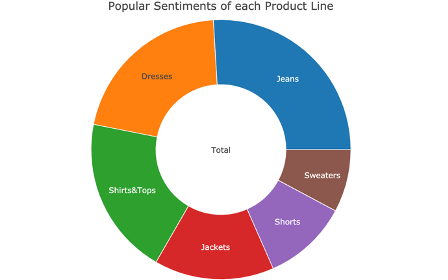
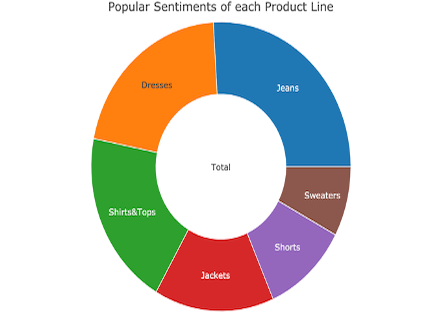
Resize Images"

diff --git a/app.py b/app.py
@@ -379,10 +379,6 @@ card4 = dbc.Card(
             [
                 html.Br(),
                 html.Br(),
-                html.Br(),
-                html.Br(),
-                html.Br(),
-                html.Br(),
                 dbc.Button("View Graph", color="primary", id="open-modal6"),
                 dbc.Modal(
                     [
@@ -606,9 +602,6 @@ card7 = dbc.Card(
             [
                 html.Br(),
                 html.Br(),
-                html.Br(),
-                html.Br(),
-                html.Br(),
                 dbc.Button("View Graph", color = "primary", size = "md", id="open-modal7"),
                 dbc.Modal(
                     [
@@ -678,7 +671,7 @@ def update_graph7(input_data):
     
     layout = {
         "title": "Popular Sentiments of each Product Line",
-        "margin": {"l": 20, "t":30, "b":20, "r":20},
+        "margin": {"l": 20, "t":100, "b":20, "r":20},
         "clickmode": "event+select"
     }
 
@@ -754,38 +747,38 @@ def toggle_modal(n1, n2, is_open):
 
 
 ################################################################################################################################################################
-complete_button = html.Div(
-    dbc.Row(
-        [
-            dbc.Col(
-                [
-                    dbc.Button("Click to conclude analysis and retrieve token", id="completed-analysis-modal-button", size="lg", color="primary"),
-                    html.Br(),
-                    html.Br(),
-                    dbc.Modal(
-                        [
-                            dbc.ModalHeader(children=[html.H3("Your token is located below.")]), 
-                            dbc.ModalBody(children=
-                                [ 
-                                    html.H4("DO NOT close the tab until you have copied your token and inserted it into the Qualtrics Survey"),
-                                    html.Br(),
-                                    html.Hr(), 
-                                    html.H2(id="token", className="alert-link")
-                                ]
-                            ),
-                            dbc.ModalFooter(
-                                dbc.Button("Close",id="close-completed-analysis-modal",className="ml-auto")
-                            )
-                        ],
-                        id="completed-analysis-modal", 
-                        size="lg", 
-                        centered=True
-                    )
-                ], width={"size": 11}
-            )
-        ], justify="center"
-    )
-)
+complete_button = dbc.Row(
+            [
+                dbc.Col(
+                    [
+                        dbc.Button("Click to conclude analysis and retrieve token", id="completed-analysis-modal-button", size="lg", color="primary"),
+                        html.Br(),
+                        html.Br(),
+                        dbc.Modal(
+                            [
+                                dbc.ModalHeader(children=[html.H3("Your token is located below.")]), 
+                                dbc.ModalBody(children=
+                                    [ 
+                                        html.H4("DO NOT close the tab until you have copied your token and inserted it into the Qualtrics Survey"),
+                                        html.Br(),
+                                        html.Hr(), 
+                                        html.H2(id="token", className="alert-link")
+                                    ]
+                                ),
+                                dbc.ModalFooter(
+                                    dbc.Button("Close",id="close-completed-analysis-modal",className="ml-auto")
+                                )
+                            ],
+                            id="completed-analysis-modal", 
+                            size="lg", 
+                            centered=True
+                        )
+                    ],
+                    width={"size": 3, "offset": 9}
+                ),
+            ]
+        )
+
 row0 = dbc.Row(children=[dbc.Col(children=cheating_button, align="center")])
 #row1 = dbc.Row([dbc.Col(id="card1", children=[card1], width=4), dbc.Col(id="card3", children=[card3], md=4), dbc.Col(id="card7", children=[card7], md=4)])
 #row2 = dbc.Row([dbc.Col(id="card4", children=[card4], md=4), dbc.Col(id="card5", children=[card5], md=4), dbc.Col(id="card8", children=[card8], md=4)]) #dbc.Col(id="card6", children=[card6], md=4)
